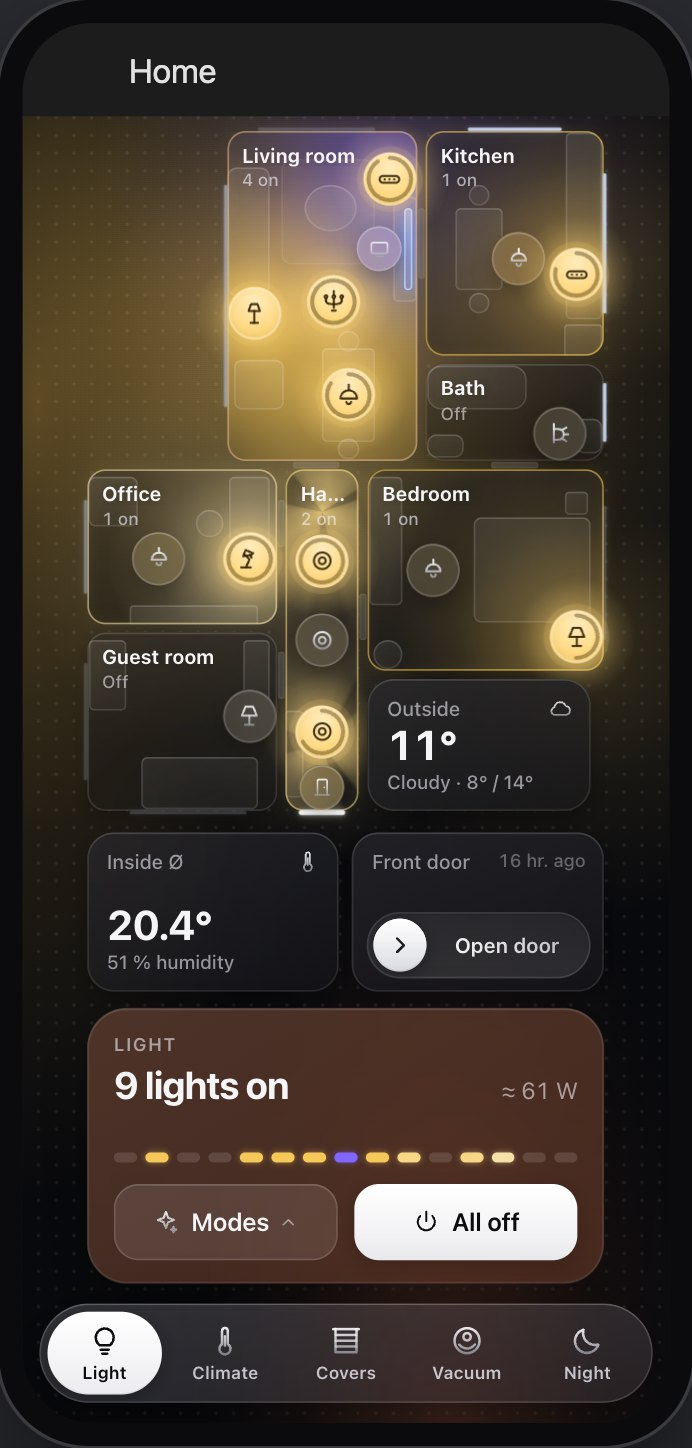
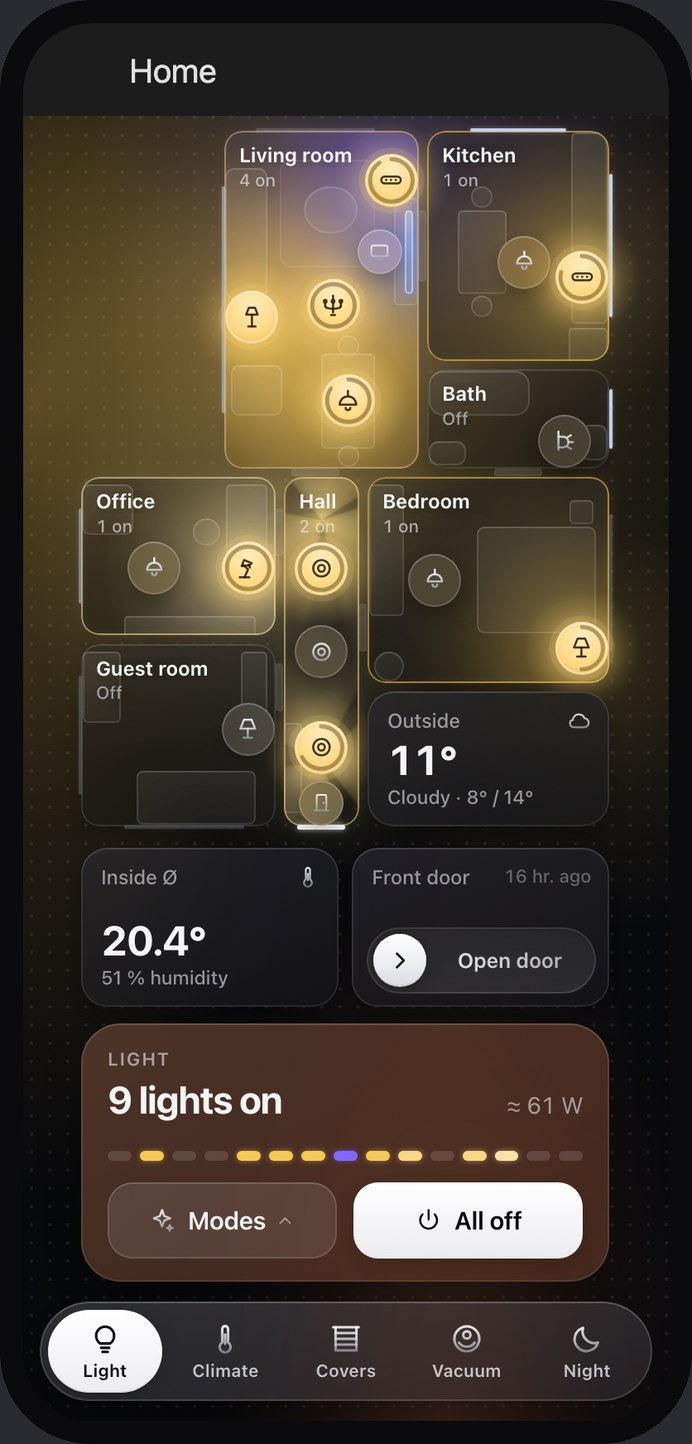
Demo: hall fits on phones, ?tab= and ?open= links, new phone screenshot

diff --git a/demo/hass.js b/demo/hass.js
@@ -15,7 +15,7 @@ window.GFC_HASS = (SCENE = 'evening', LANG = 'en', onChange = () => {}) => {
   const cold = SCENE === 'cold';
 
   for (const [id, en, d] of [['kitchen', 'Kitchen', 'Küche'], ['bathroom', 'Bath', 'Bad'], ['bedroom', 'Bedroom', 'Schlafzimmer'], ['living_room', 'Living room', 'Wohnzimmer'],
-    ['hallway', 'Hallway', 'Flur'], ['office', 'Office', 'Büro'], ['guest_room', 'Guest room', 'Gästezimmer']]) AREAS[id] = { area_id: id, name: N(en, d) };
+    ['hallway', 'Hall', 'Flur'], ['office', 'Office', 'Büro'], ['guest_room', 'Guest room', 'Gästezimmer']]) AREAS[id] = { area_id: id, name: N(en, d) };
 
   // lights
   const light = (id, name, modes, on, extra = {}, area) => {
@@ -104,7 +104,7 @@ window.GFC_HASS = (SCENE = 'evening', LANG = 'en', onChange = () => {}) => {
   set(`vacuum.${V}`, cleaning ? 'cleaning' : 'docked', { friendly_name: 'Roborock S8', fan_speed: 'balanced', fan_speed_list: ['off', 'quiet', 'balanced', 'turbo', 'max', 'custom', 'max_plus'], supported_features: 13180 });
   const vsens = {
     status: [cleaning ? 'segment_cleaning' : 'charging'], battery: [cleaning ? 84 : 100, { unit_of_measurement: '%', device_class: 'battery' }],
-    cleaning_progress: [cleaning ? 42 : 0, { unit_of_measurement: '%' }], current_room: [cleaning ? N('Living room', 'Wohnzimmer') : N('Hallway', 'Flur'), { device_class: 'enum', options: Object.values(AREAS).map((a) => a.name) }],
+    cleaning_progress: [cleaning ? 42 : 0, { unit_of_measurement: '%' }], current_room: [cleaning ? N('Living room', 'Wohnzimmer') : N('Hall', 'Flur'), { device_class: 'enum', options: Object.values(AREAS).map((a) => a.name) }],
     vacuum_error: ['none'], cleaning_area: [cleaning ? 11.5 : 9.0, { unit_of_measurement: 'm²' }], cleaning_time: [cleaning ? 9 : 13, { unit_of_measurement: 'min' }],
   };
   for (const [k, [v, a]] of Object.entries(vsens)) { set(`sensor.${V}_${k}`, v, a || {}); reg(`sensor.${V}_${k}`, { device_id: 'dev_robot', platform: 'roborock', translation_key: k }); }
@@ -161,7 +161,7 @@ window.GFC_HASS = (SCENE = 'evening', LANG = 'en', onChange = () => {}) => {
     upd(`vacuum.${V}`, { state: 'docked' });
     upd(`sensor.${V}_status`, { state: 'charging' });
     upd(`binary_sensor.${V}_charging`, { state: 'on' });
-    upd(`sensor.${V}_current_room`, { state: N('Hallway', 'Flur') });
+    upd(`sensor.${V}_current_room`, { state: N('Hall', 'Flur') });
     upd(`sensor.${V}_cleaning_progress`, { state: '0' });
   }
 

diff --git a/dist/glass-floorplan-card.js b/dist/glass-floorplan-card.js
@@ -6621,7 +6621,7 @@ function exampleConfig(lang = 'en') {
       { id: 'living', name: N('Living room', 'Wohnzimmer'), area: 'living_room', rect: [0, 320, 580, 660],
         furniture: [[56, 400, 236, 560, 'rug'], [120, 328, 300, 368, 'sideboard'], [140, 336, 280, 350, 'tv'], [70, 580, 290, 652, 'sofa'], [100, 430, 180, 520, 'round_table'],
           [380, 400, 540, 490, 'table'], [350, 427, 386, 463, 'chair'], [534, 427, 570, 463, 'chair'], [400, 556, 485, 641, 'armchair']] },
-      { id: 'hallway', name: N('Hallway', 'Flur'), area: 'hallway', rect: [580, 420, 1180, 560],
+      { id: 'hallway', name: N('Hall', 'Flur'), area: 'hallway', rect: [580, 420, 1180, 560],
         helpers: ['input_number.hallway_night_brightness'], furniture: [[1000, 522, 1150, 554, 'sideboard']] },
       { id: 'office', name: N('Office', 'Büro'), area: 'office', rect: [580, 560, 860, 900],
         furniture: [[600, 580, 760, 650, 'desk'], [657, 660, 703, 706, 'chair'], [820, 600, 856, 820, 'shelf'], [600, 806, 685, 891, 'armchair']] },

diff --git a/src/23-example.js b/src/23-example.js
@@ -15,7 +15,7 @@ function exampleConfig(lang = 'en') {
       { id: 'living', name: N('Living room', 'Wohnzimmer'), area: 'living_room', rect: [0, 320, 580, 660],
         furniture: [[56, 400, 236, 560, 'rug'], [120, 328, 300, 368, 'sideboard'], [140, 336, 280, 350, 'tv'], [70, 580, 290, 652, 'sofa'], [100, 430, 180, 520, 'round_table'],
           [380, 400, 540, 490, 'table'], [350, 427, 386, 463, 'chair'], [534, 427, 570, 463, 'chair'], [400, 556, 485, 641, 'armchair']] },
-      { id: 'hallway', name: N('Hallway', 'Flur'), area: 'hallway', rect: [580, 420, 1180, 560],
+      { id: 'hallway', name: N('Hall', 'Flur'), area: 'hallway', rect: [580, 420, 1180, 560],
         helpers: ['input_number.hallway_night_brightness'], furniture: [[1000, 522, 1150, 554, 'sideboard']] },
       { id: 'office', name: N('Office', 'Büro'), area: 'office', rect: [580, 560, 860, 900],
         furniture: [[600, 580, 760, 650, 'desk'], [657, 660, 703, 706, 'chair'], [820, 600, 856, 820, 'shelf'], [600, 806, 685, 891, 'armchair']] },

diff --git a/demo/index.html b/demo/index.html
@@ -79,12 +79,15 @@ const sim = GFC_HASS(SCENE, LANG, () => { if (card) card.hass = sim.hass(); });
 window.__sim = sim;
 
 function mount() {
+  // ?tab=climate opens a layer, ?open=living a room (room id) or the weather (links to a view of the demo)
+  if (P.get('tab')) try { localStorage.setItem('glass-floorplan-card:default', JSON.stringify({ tab: P.get('tab') })); } catch (e) { /* ignore */ }
   card = document.createElement('glass-floorplan-card');
   card.id = 'card';
   document.getElementById('main').replaceChildren(card);
   card.setConfig(config);
   card.hass = sim.hass();
   window.__card = card;
+  if (P.get('open')) setTimeout(() => (P.get('open') === 'weather' ? card._openWeather() : card._openRoom(P.get('open'))), 700);
 }
 function start() {
   config = P.get('blank') === '1' ? { type: 'custom:glass-floorplan-card', language: LANG } : GFC_EXAMPLE(LANG);

diff --git a/README.md b/README.md
@@ -39,7 +39,7 @@ The `demo/` folder contains a made-up flat with simulated devices, and nothing i
 
 ```bash
 python3 -m http.server 8765 --bind 127.0.0.1
-# open http://127.0.0.1:8765/demo/        (?lang=de, ?scene=day|cleaning|playing|cold, ?blank=1)
+# open http://127.0.0.1:8765/demo/        (?lang=de, ?scene=day|cleaning|playing|cold, ?tab=climate, ?open=living, ?blank=1)
 #      http://127.0.0.1:8765/demo/phone.html
 ```
 
@@ -92,7 +92,7 @@ rooms:
       - [70, 580, 290, 652, sofa]      # x1, y1, x2, y2, kind
       - [100, 430, 180, 520, round_table]
   - id: hallway
-    name: Hallway
+    name: Hall
     area: hallway
     rect: [580, 420, 1180, 560]
     helpers: [input_number.hallway_night_brightness]   # sliders in the pop-up
